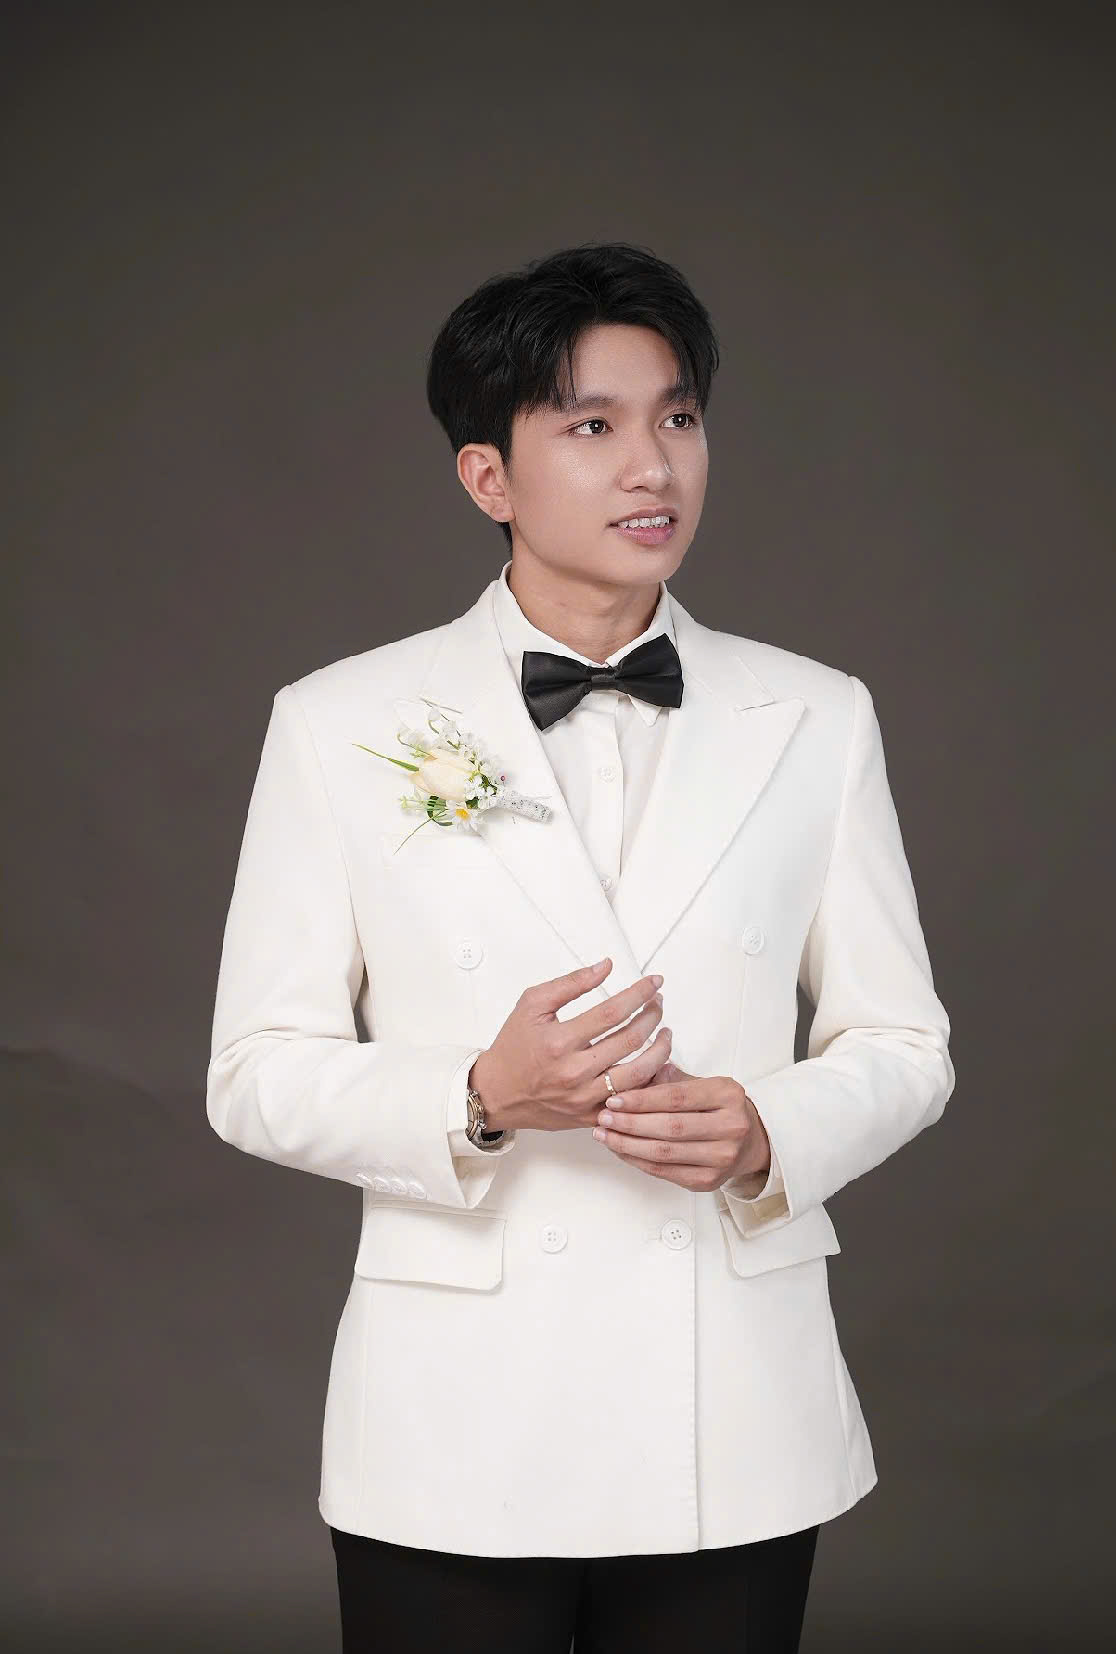
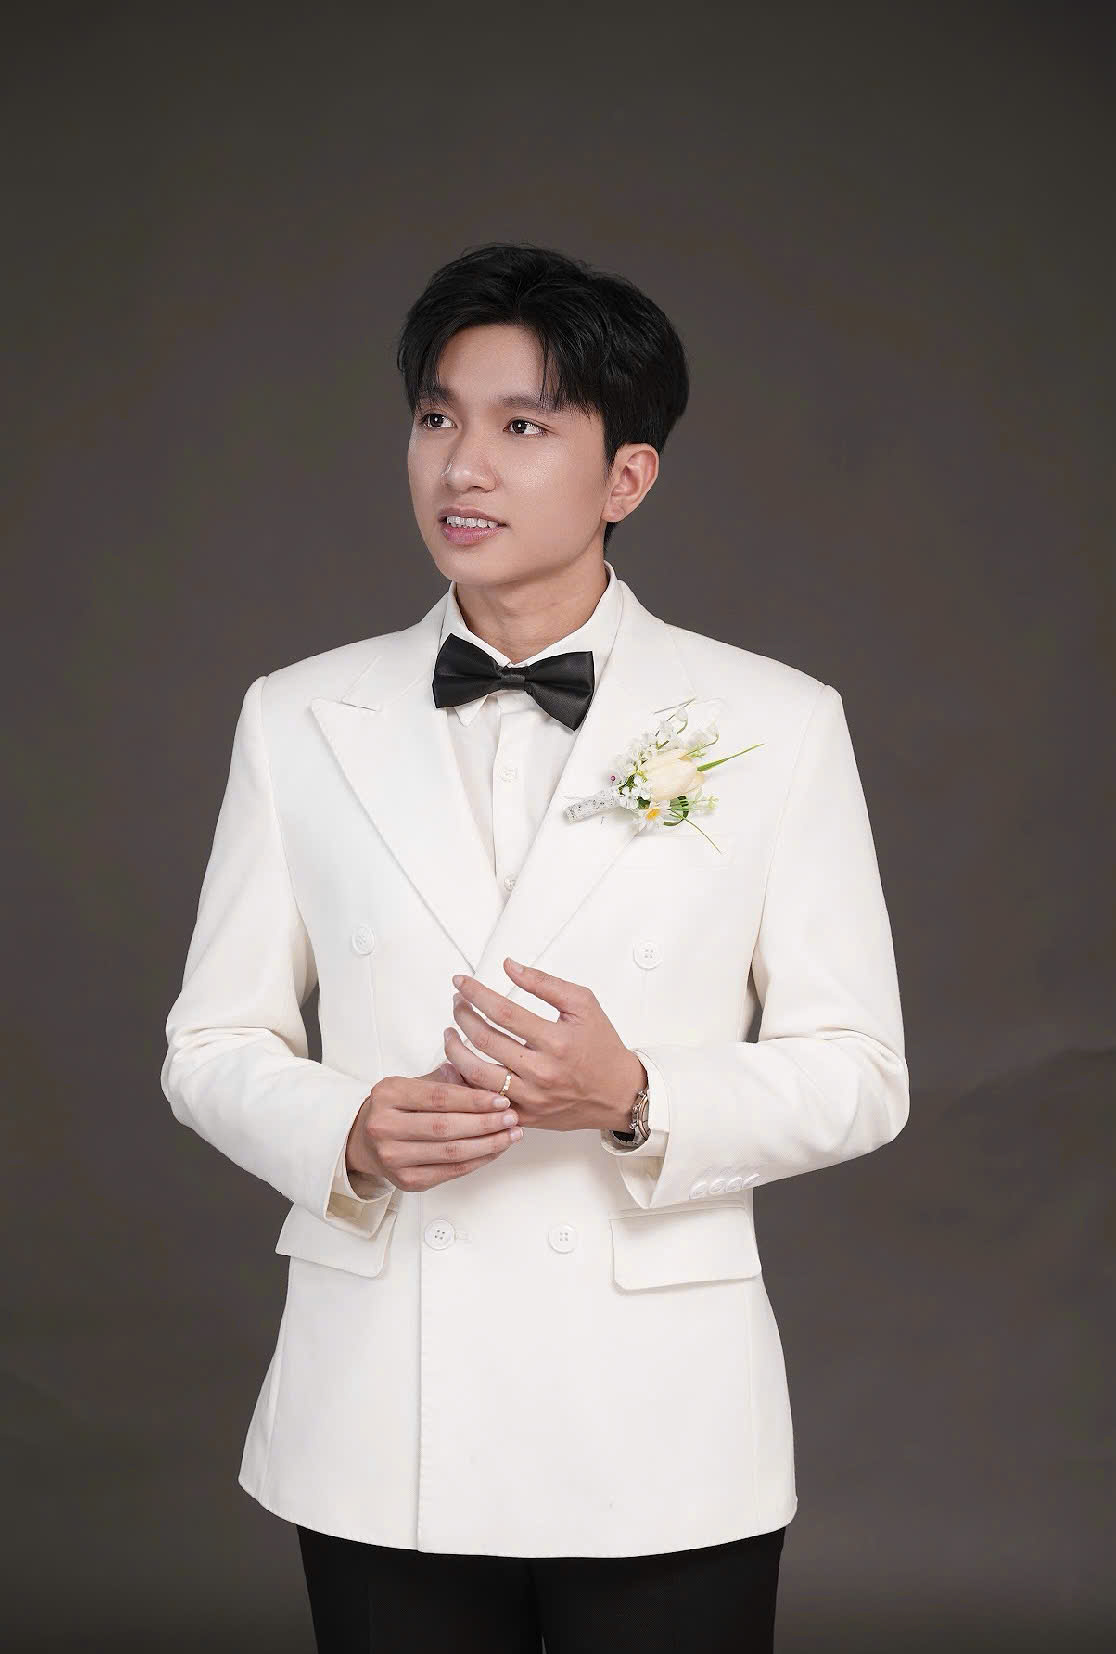
1

diff --git a/index.html b/index.html
@@ -1815,14 +1815,8 @@
         <!-- parent info -->
         <section class="parent-info-section scroll-reveal">
             <div class="parent-info-container">
-                <!-- Bên trái: Ảnh chú rể -->
-                <div class="parent-info-left">
-                    <div class="parent-info-image-frame">
-                        <img src="images/chure.jpg" alt="Chú Rể" class="parent-info-image">
-                    </div>
-                </div>
-
-                <!-- Bên phải: Nội dung chữ -->
+                
+                <!-- Bên trái: Nội dung chữ -->
                 <div class="parent-info-right">
                     <!-- Phần 1: Thông tin gia đình nhà trai -->
                     <div class="parent-info-family">
@@ -1834,19 +1828,32 @@
                             Thôn Nội, Phượng Dực<br>Hà Nội
                         </div>
                     </div>
-
+                    
                     <!-- Phần 2: Tiêu đề và tên chú rể -->
                     <div class="parent-info-couple">
                         
                         <div class="parent-info-groom-name">Hồng Đức</div>
                     </div>
                 </div>
+                <!-- Bên phải: Ảnh chú rể -->
+                <div class="parent-info-left">
+                    <div class="parent-info-image-frame">
+                        <img src="images/chure.jpg" alt="Chú Rể" class="parent-info-image">
+                    </div>
+                </div>
             </div>
         </section>
-
-         <section class="parent-info-section scroll-reveal">
+        
+        <section class="parent-info-section scroll-reveal">
             <div class="parent-info-container">
-               
+                
+                
+                <!-- Bên trái: Ảnh cô dâu -->
+                <div class="parent-info-right">
+                    <div class="parent-info-image-frame">
+                        <img src="images/codau.jpg" alt="Cô Dâu" class="parent-info-image">
+                    </div>
+                </div>
                 <!-- Bên phải: Nội dung chữ -->
                 <div class="parent-info-left">
                     <!-- Phần 1: Thông tin gia đình nhà trai -->
@@ -1860,17 +1867,10 @@
                         </div>
                     </div>
 
-                    <!-- Phần 2: Tiêu đề và tên chú rể -->
+                    <!-- Phần 2: Tiêu đề và tên cô dâu -->
                     <div class="parent-info-couple">
                         
                         <div class="parent-info-groom-name">Mỹ Duyên</div>
-                    </div>
-                </div>
-
-                 <!-- Bên trái: Ảnh chú rể -->
-                <div class="parent-info-right">
-                    <div class="parent-info-image-frame">
-                        <img src="images/codau.jpg" alt="Cô Dâu" class="parent-info-image">
                     </div>
                 </div>
 
